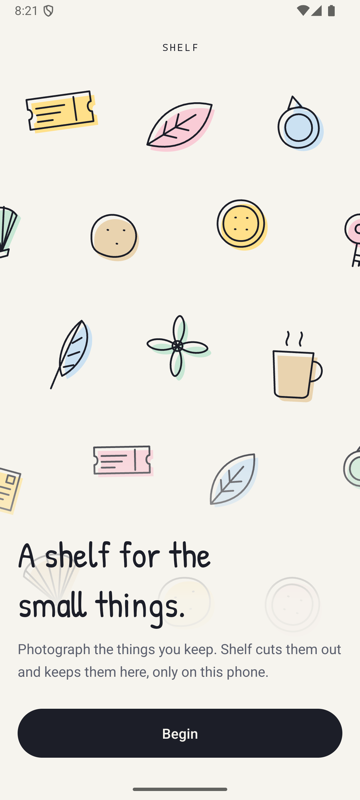
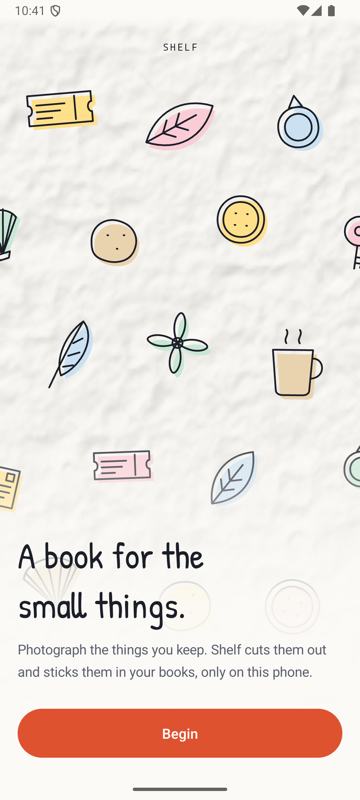
docs: describe books, pages and the calendar
New screenshots of the welcome screen, a book on the desk, a page, choosing
what to keep and naming it. Features, project structure and limitations
now cover books, turning pages, arranging, the calendar and editing.

diff --git a/README.md b/README.md
@@ -21,20 +21,23 @@
 
 ---
 
-Shelf is a native Android app for keeping the small things that matter: a ticket, a shell, a key. Photograph an object and Shelf cuts it out on your phone, like a sticker. Give it a name and a story if you like, and keep it on a shelf.
+Shelf is a native Android app for keeping the small things that matter: a ticket, a shell, a key. Photograph an object and Shelf cuts it out on your phone, like a sticker. Give it a name and a story if you like, and stick it into a book.
 
-| Welcome | Your shelf | Choose | Snip | Story |
+| Welcome | Your books | A page | Choose | Name it |
 | :---: | :---: | :---: | :---: | :---: |
-| <img src="docs/screenshots/welcome.png" width="160" alt="Welcome screen with hand-drawn keepsakes"> | <img src="docs/screenshots/shelf.png" width="160" alt="An empty shelf waiting for its first thing"> | <img src="docs/screenshots/choose.png" width="160" alt="A photo with a dashed cut line around a shell"> | <img src="docs/screenshots/snip.png" width="160" alt="The shell cut out as a sticker"> | <img src="docs/screenshots/story.png" width="160" alt="Naming the object and adding a story"> |
+| <img src="docs/screenshots/welcome.png" width="160" alt="Welcome screen with hand-drawn keepsakes"> | <img src="docs/screenshots/books.png" width="160" alt="A book on the desk, its cover made from the shells inside"> | <img src="docs/screenshots/page.png" width="160" alt="A page of shells with kraft name tags, a taped print and a date stamp"> | <img src="docs/screenshots/choose.png" width="160" alt="A taped photo with a blue cut line around a shell"> | <img src="docs/screenshots/name.png" width="160" alt="The shell sticker tied to a kraft tag to write its name on"> |
 
 ## Features
 
 - **Cut-outs on your phone.** ML Kit subject segmentation finds the objects in a photo and draws a dashed cut line around each. Tap one, or press and hold, then **Snip it out**. When a photo holds a single object, it is selected for you.
-- **Whole photos too.** Keep the full photo as a framed print, by choice or when an object can't be separated.
-- **Names and stories.** Give each thing a title, an optional story, and a shelf.
-- **Shelves.** Stickers stand on hand-drawn shelves, grouped by shelf name, and open into a page of their own.
+- **Whole photos too.** Keep the full photo as a print, by choice or when an object can't be separated.
+- **Books.** Things go into books you swipe between on a desk. Each cover is made from its own things, with the book's name in cut-out letters.
+- **Pages that fill up.** Four things to a page, each with its name on a kraft tag and the start of its story in pen. Drag a page and it turns around the spine like paper, or use the arrows.
+- **Arrange a page.** Drag things, twist them, and choose the book's paper: grid, dots, lined, plain or cork.
+- **A calendar.** See each month with the things you kept on the days you kept them.
+- **A page for each thing.** The sticker, the photo it was cut from, its date and its story. Edit, move or delete it from there.
 - **Private by design.** No account and no uploads. Photos and details stay in app-private storage.
-- **Accessible.** Screen reader labels, buttons as an alternative to gestures, 48 dp touch targets, and no motion when system animations are off.
+- **Accessible.** Screen reader labels, buttons as an alternative to every gesture, 48 dp touch targets, and no motion when system animations are off.
 
 ## Download
 
@@ -43,7 +46,7 @@ Get the latest APK from [GitHub Releases](https://github.com/ShobhanKarthish/she
 | APK | What it is |
 | --- | --- |
 | `shelf-<version>.apk` | The standard release, signed with Shelf's release key. |
-| `shelf-<version>-debug-upgrade.apk` | Updates an earlier development build and keeps its shelf. |
+| `shelf-<version>-debug-upgrade.apk` | Updates an earlier development build and keeps its books. |
 | `shelf-<version>-preview.apk` | Installs next to Shelf as **Shelf Preview**, with its own shelf. |
 
 > [!WARNING]
@@ -105,7 +108,7 @@ SHELF_SIGNING_PROPERTIES=/absolute/path/to/release-signing.properties ./gradlew 
 
 Back up the keystore and credentials securely: every future update must be signed with the same key. Never commit them. Increase `versionCode` in `app/build.gradle.kts` for every release; version `0.3.0` uses version code `3`.
 
-A release-signed APK cannot update a debug-signed installation. Use the matching `debug-upgrade` APK to update a development build without losing its shelf.
+A release-signed APK cannot update a debug-signed installation. Use the matching `debug-upgrade` APK to update a development build without losing its books.
 
 ## Testing
 
@@ -138,17 +141,19 @@ Shelf uses Kotlin, native Android views, SQLite and ML Kit subject segmentation,
 
 | File | What it does |
 | --- | --- |
-| `MainActivity.kt` | Every screen, the add flow, saving and draft restoration. |
+| `MainActivity.kt` | Every screen: the desk, pages, the calendar, a thing's page, and adding, editing and saving. |
+| `BookViews.kt` | Pages and the page turn, covers, the calendar sheet and a thing on its page. |
+| `Scrap.kt` | Paper, grain, tape, pins, stamps, kraft tags, pen notes and cut-out letters. |
 | `SubjectSelectionView.kt` | The photo, its cut lines, tap selection and the snip animation. |
 | `Stickers.kt` | Cuts stickers on background threads and caches them. |
 | `Welcome.kt` | The drawn keepsakes on the welcome screen. |
-| `CollageViews.kt` | Buttons, sticker views, shelf rows and other components. |
-| `Collage.kt` | Palette, fonts, hand-drawn marks and the scissors. |
-| `ShelfStore.kt` | Local storage for objects and their images. |
+| `CollageViews.kt` | Buttons, sticker views and other shared components. |
+| `Collage.kt` | Palette, fonts, icons and the scissors. |
+| `ShelfStore.kt` | Local storage for books, things, their images and where they sit on a page. |
 
 ## Current limitations
 
-Shelf is in early development. Editing and deleting saved objects, camera capture, and export are not available yet, and collections are meant to be small. Imported images are scaled to a maximum long edge of 1600 pixels. Selection only separates objects the model detects separately, so touching or overlapping objects can come out as one.
+Shelf is in early development. Camera capture and export are not available yet, and collections are meant to be small. Imported images are scaled to a maximum long edge of 1600 pixels. Selection only separates objects the model detects separately, so touching or overlapping objects can come out as one.
 
 ## Contributing
 
